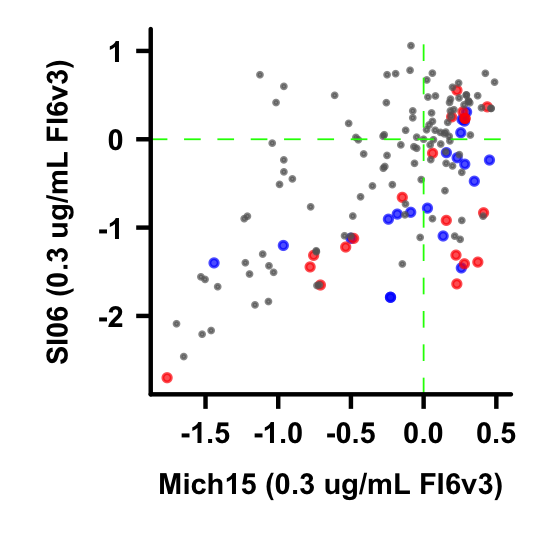
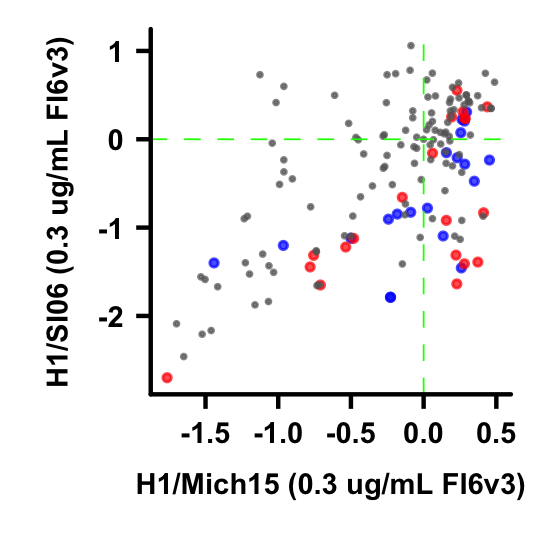
update H1 analysis

Changed region(s): [[0.237, 0.8593, 0.9778, 0.9481], [0.0593, 0.0593, 0.1481, 0.7407]]

diff --git a/README.md b/README.md
@@ -7,9 +7,9 @@ This study aims to search for mutations that can escape HA stem-binding broadly 
 * [./doc/SampleID.tsv](./doc/SampleID.tsv): Describes the sample identity for each fastq file.
 * [./doc/WTCodon.tsv](./doc/WTCodon.tsv): Describes the wild type nucleotide sequence for the residues of interest
 * [./doc/ResiBarcode.tsv](./doc/ResiBarcode.tsv): Describes the nucleotide sequence for HA2 residues 43, 44, 50, and 112, which serves as an internal barcode. Silent mutations were introduced into HA2 residues 43, 44, 50, and 112, to index which residues were being randomized. 
-* [./doc/HK68\_WTheatmap.tsv](./doc/HK68\_WTheatmap.tsv): Describes the location of the boxed (wild type residues) when plotting heatmap HK68.
-* [./doc/WSN\_WTheatmap.tsv](./doc/WSN\_WTheatmap.tsv): Describes the location of the boxed (wild type residues) when plotting heatmap for WSN.
-* [./doc/Perth09\_WTheatmap.tsv](./doc/Perth09\_WTheatmap.tsv): Describes the location of the boxed (wild type residues) when plotting heatmap for Perth09.
+* [./doc/HK68\_WTheatmap.tsv](./doc/HK68\_WTheatmap.tsv): Describes the location of the boxed (wild type residues) when plotting heatmap H3/HK68.
+* [./doc/WSN\_WTheatmap.tsv](./doc/WSN\_WTheatmap.tsv): Describes the location of the boxed (wild type residues) when plotting heatmap for H1/WSN.
+* [./doc/Perth09\_WTheatmap.tsv](./doc/Perth09\_WTheatmap.tsv): Describes the location of the boxed (wild type residues) when plotting heatmap for H3/Perth09.
 
 ### ANALYSIS PIPELINE FOR HK68 (H3N2), PERTH09 (H3N2), and WSN (H1N1)
 1. [./script/HK68\_Stem\_read\_to\_count.py](./script/HK68_Stem_read_to_count.py): Converts raw reads to variant counts.
@@ -34,20 +34,20 @@ This study aims to search for mutations that can escape HA stem-binding broadly 
 4. [./script/HK68\_format\_heatmap.py](./script/HK68\_format\_heatmap.py): Generates the input file for double mutant heatmap plotting.
     - Input file: [./result/Resist\_D.tsv](./result/Resist\_D.tsv)
     - Output file: [./result/Heatmap\_D.tsv](./result/Heatmap\_D.tsv)
-5. [./script/Perth09\_count2fit.py](./script/Perth09\_count2fit.py): Computes relative fitness from Perth09 count data.
+5. [./script/Perth09\_count2fit.py](./script/Perth09\_count2fit.py): Computes relative fitness from H3/Perth09 count data.
     - Input file: Bloom\_data/Perth09\/\*.csv
     - Output file: [./result/Fitness\_Perth09.tsv](./result/Fitness\_Perth09.tsv)
-6. [./script/WSN\_count2fit.py](./script/WSN\_count2fit.py): Computes relative fitness from WSN count data.
+6. [./script/WSN\_count2fit.py](./script/WSN\_count2fit.py): Computes relative fitness from H1/WSN count data.
     - Input file: Bloom\_data/WSN/\*.csv
     - Output file: [./result/Fitness\_WSN.tsv](./result/Fitness\_WSN.tsv)
-7. [./script/Compare\_strains.py](./script/Compare\_strains.py): Compile single mutant fitness data from HK68, Perth09, and WSN into a single file
+7. [./script/Compare\_strains.py](./script/Compare\_strains.py): Compile single mutant fitness data from H3/HK68, H3/Perth09, and H1/WSN into a single file
     - Input files:
       - [./result/Resist\_S.tsv](./result/Resist\_S.tsv)
       - [./result/Fitness\_Perth09.tsv](./result/Fitness\_Perth09.tsv)
       - [./result/Fitness\_WSN.tsv](./result/Fitness\_WSN.tsv)
     - Output file: [./result/Fit\_compare.tsv](./result/Fit\_compare.tsv)
 
-### ANALYSIS PIPELINE FOR SI06 (H1N1) and MICH15 (H1N1)
+### ANALYSIS PIPELINE FOR H1/SI06 and H1/MICH15
 1. [./script/H1\_Stem\_read\_to\_count.py](./script/H1_Stem_read_to_count.py): Converts raw reads to variant counts.
     - Input files: 
       - Raw sequencing reads in fastq/ folder
@@ -71,7 +71,11 @@ This study aims to search for mutations that can escape HA stem-binding broadly 
     - Input files: 
       - [./result/Fitness\_S.tsv](./result/Fitness\_S.tsv)
       - [./result/Fitness\_D.tsv](./result/Fitness\_D.tsv)
-    - Output file: [./graph/QC\_replicates\_cor.png](./graph/QC\_replicates\_cor.png)
+      - [./result/Fitness\_SI06.tsv](./result/Fitness\_SI06.tsv)
+      - [./result/Fitness\_Mich15.tsv](./result/Fitness\_Mich15.tsv)
+    - Output file:
+      - [./graph/QC\_replicates\_cor.png](./graph/QC\_replicates\_cor.png)
+      - [./graph/QC\_replicates\_cor\_H1.png](./graph/QC\_replicates\_cor\_H1.png)
 2. [./script/Plot\_sample\_cor.R](./script/Plot\_sample\_cor.R): Compare relative resistance profiles across different antibody selections
    - Input files: 
       - [./result/Resist\_S.tsv](./result/Resist\_S.tsv)
@@ -97,18 +101,18 @@ This study aims to search for mutations that can escape HA stem-binding broadly 
 5. [./script/Plot\_double\_heatmap.R](./script/Plot\_double\_heatmap.R): Plots the fitness heatmap and resistance heatmap for double mutant.
     - Input file: [./result/Heatmap\_D.tsv](./result/Heatmap\_D.tsv)
     - Output files: graph/heatmap\_\*\_double.png
-6. [./script/Plot\_compare\_strains.R](./script/Plot\_compare\_strains.R): Generates scatter plots for comparing the relative fitness data of HK68, Perth09, and WSN.
+6. [./script/Plot\_compare\_strains.R](./script/Plot\_compare\_strains.R): Generates scatter plots for comparing the relative fitness data of H3/HK68, H3/Perth09, and H1/WSN.
     - Input file: [./result/Fit\_compare.tsv](./result/Fit\_compare.tsv)
     - Output files: graph/scatter\_fit\_\*.png
-7. [./script/Plot\_resi45\_fit.R](./script/Plot\_resi45\_fit.R): Plots the fitness of different variants at HA2 residue 45 for HK68, Perth09, and WSN. 
+7. [./script/Plot\_resi45\_fit.R](./script/Plot\_resi45\_fit.R): Plots the fitness of different variants at HA2 residue 45 for H3/HK68, H3/Perth09, and H1/WSN. 
     - Input file: [./result/Fit\_compare.tsv](./result/Fit\_compare.tsv)
     - Output file: [./graph/resi45\_fit.png](./graph/resi45\_fit.png)
-8. [./script/Plot\_resist\_heatmap\_Perth09.R](./script/Plot\_resist\_heatmap\_Perth09.R): Plots the heatmap for single mutant relative resistance for Perth09
+8. [./script/Plot\_resist\_heatmap\_Perth09.R](./script/Plot\_resist\_heatmap\_Perth09.R): Plots the heatmap for single mutant relative resistance for H3/Perth09
     - Input files:
       - [./doc/Perth09\_WTheatmap.tsv](./doc/Perth09\_WTheatmap.tsv)
       - [./result/Fitness\_Perth09.tsv](./result/Fitness\_Perth09.tsv)
     - Output files: [./graph/heatmap\_FI6v3esp\_single\_Perth09.png](./graph/heatmap\_FI6v3esp\_single\_Perth09.png)
-9. [./script/Plot\_resist\_heatmap\_WSN.R](./script/Plot\_resist\_heatmap\_WSN.R): Plots the heatmap for single mutant relative resistance for WSN
+9. [./script/Plot\_resist\_heatmap\_WSN.R](./script/Plot\_resist\_heatmap\_WSN.R): Plots the heatmap for single mutant relative resistance for H1/WSN
     - Input files:
       - [./doc/WSN\_WTheatmap.tsv](./doc/WSN\_WTheatmap.tsv)
       - [./result/Fitness\_WSN.tsv](./result/Fitness\_WSN.tsv)
@@ -124,3 +128,9 @@ This study aims to search for mutations that can escape HA stem-binding broadly 
     - Output files:
       - [graph/heatmap\_FI6v3esp\_single\_Mich15.png](graph/heatmap\_FI6v3esp\_single\_Mich15.png)
       - [graph/heatmap\_FI6v3esp\_single\_SI06.png](graph/heatmap\_FI6v3esp\_single\_SI06.png)
+11. [./script/Plot\_CompareFracSurvive.R](./script/Plot\_CompareFracSurvive.R): Plots fraction surviving
+    - Input files:
+      - [./Bloom_data/Perth09\_antibody\_FI6v3\_median.csv](./Bloom_data/Perth09\_antibody\_FI6v3\_median.csv)
+      - [./Bloom\_data/WSN\_antibody\_FI6v3\_median.csv](./Bloom\_data/WSN\_antibody\_FI6v3\_median.csv)
+      - [./Bloom\_data/WSN\_antibody\_CR9114\_median.csv](./Bloom\_data/WSN\_antibody\_CR9114\_median.csv)
+    - Output files: [./graph/frac\_surviving\_compare.png](./graph/frac\_surviving\_compare.png)
